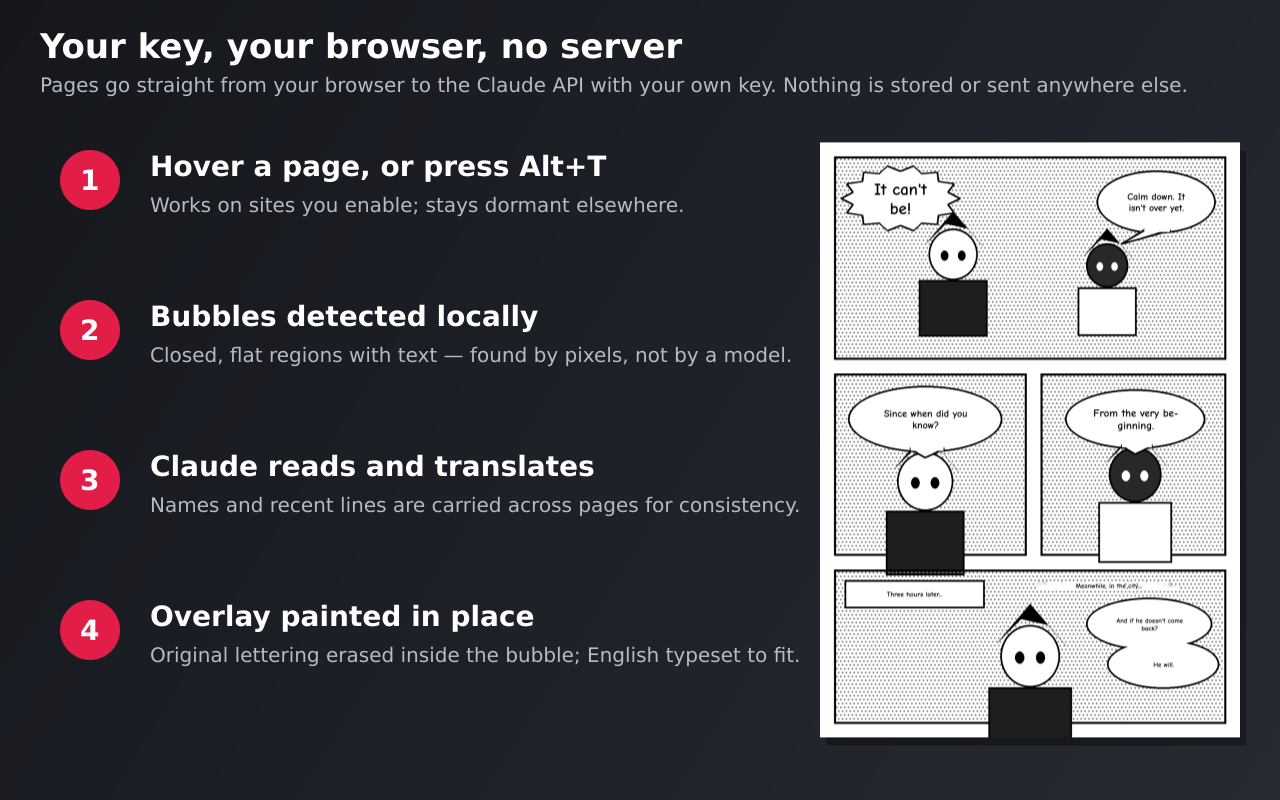
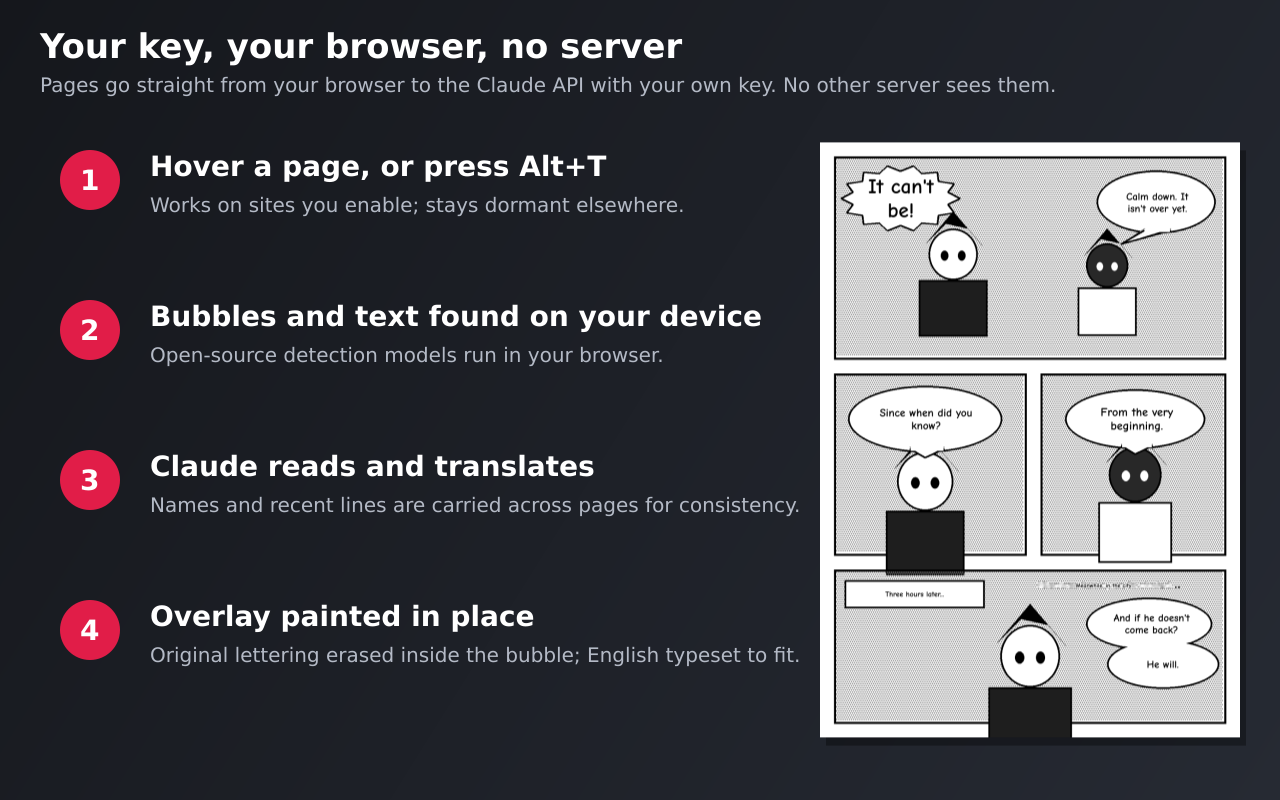
Store listing: five screenshots, re-rendered and corrected
- 1–3 re-rendered with the current engine; 3 no longer says bubbles are
  "found by pixels, not by a model" (models since 2.0.0) and its top
  line no longer says nothing is stored; 1 no longer claims the artwork
  is untouched.
- 4 (new): a Japanese page, vertical and horizontal lettering, a dark
  bubble and screentone, with real translations of its text (the test
  fixture pairs Japanese and English at random).
- 5 (new): the real popup and Claude usage panel, demo data,
  reader.example (tests/browser/store-shot.mjs), 1280x800.
- The script tags each line with the region around its original text,
  as Claude does: two overlapping bubbles had been left untranslated.
- The close-up crop fits the page width (no empty strip).

Claude-Session: https://claude.ai/code/session_01HC7DG1xgeqgY9rhdzbcHRJ

diff --git a/CHANGELOG.md b/CHANGELOG.md
@@ -15,6 +15,16 @@ All notable changes to Gytakusub are documented here. The format follows [Keep a
   - Measured with a new browser test (14 pages, fast scroll to the end, a model taking 2.5 s per answer, CPU only): the page on screen was ready about **12 s** after the stop instead of 30 s, and Claude was asked about **3** pages instead of 8.
 - **Options: the side nav stays on screen** while the page scrolls, and marks the section you're reading (or the one you picked in it). It was meant to stick already, but as a grid item it stretched to the full page height, so it scrolled away. The browser test now checks both.
 
+### Store listing
+- **Five screenshots instead of three** (`store/assets/`, upload them in the dashboard):
+  - 1–3 re-rendered with the current engine;
+  - 4 is new: a Japanese page with vertical and horizontal lettering, a dark bubble and screentone, before and after;
+  - 5 is new: the real popup and the Claude usage panel (`tests/browser/store-shot.mjs`, demo data, a site named `reader.example`).
+- **Screenshot 3 said something no longer true:** "found by pixels, not by a model". Since 2.0.0, bubbles and text are found by open-source models running in the browser. Its top line now says no other server sees your pages, instead of "nothing is stored". Screenshot 1 no longer says the artwork is untouched: narration on screentone can be smudged where it was erased.
+- **The screenshot script tags each line with the bubble around its original text,** as Claude does, not by matching the bubble's outline. Two overlapping bubbles had been left untranslated in screenshot 1.
+- **Screenshot 4 uses real translations of its Japanese text.** The generated test page pairs Japanese and English lines at random, which the tests don't mind.
+- The close-up no longer has an empty strip at its right edge.
+
 ### Releases
 - **Store uploads use the Chrome Web Store API V2.** Google planned to support the old v1.1 API, which `scripts/cws-publish.mjs` used, only until 15 October 2026. The script now uploads, waits while the store processes the package, checks its version, and submits for review, with V2's endpoints and fields. A test runs it against a fake API.
 - **No stored key for the upload.** The release workflow signs in to Google with Workload Identity Federation: GitHub vouches for the release run, and Google gives a 15-minute token to a service account that only this repo's release workflow (from `main` or a version tag) may use. One-time setup: `scripts/cws-google-setup.sh` in Google Cloud Shell, then three GitHub variables (store/RELEASE-CHECKLIST.md § Automating updates). The refresh-token way remains as a fallback.

diff --git a/store/RELEASE-CHECKLIST.md b/store/RELEASE-CHECKLIST.md
@@ -20,7 +20,7 @@ Everything below is a one-time account step or a copy-paste from `store/LISTING.
 - [ ] Paste **Name**, **Summary**, **Description** from `LISTING.md`.
 - [ ] Category: Productivity. Language: English.
 - [ ] Upload icon `extension/icons/icon128.png`.
-- [ ] Upload the three screenshots from `store/assets/` (1280×800) and the small promo tile (440×280).
+- [ ] Upload the five screenshots from `store/assets/` (1280×800, numbered in order) and the small promo tile (440×280).
 - [ ] Homepage URL: `https://github.com/gywreb/gytakusub`. Support URL: `https://github.com/gywreb/gytakusub/issues`.
 
 ## 4. Privacy practices tab (10 min) — this is where most rejections happen
@@ -60,7 +60,7 @@ Versions come with pull requests (each one raises `extension/manifest.json` and 
 
 ## Automating updates (one-time, ~15 min) — after the first version is approved
 
-Later versions are then one command from the repo folder (Windows PowerShell, macOS or Linux): `node scripts/release.mjs`. CI tests, zips, creates the GitHub Release, uploads to the store and submits for review. Listing text and screenshots stay as they are.
+Later versions are then one command from the repo folder (Windows PowerShell, macOS or Linux): `node scripts/release.mjs`. CI tests, zips, creates the GitHub Release, uploads to the store and submits for review. The API doesn't touch the listing: when the listing text or `store/assets/` change, update them in the dashboard (**Store listing** tab) yourself.
 
 The upload uses the Chrome Web Store API V2 (Google planned to support the old v1.1 API only until 15 October 2026), and signs in **without any stored key**: GitHub vouches for the release run, and Google swaps that for a 15-minute token of a service account (Workload Identity Federation, which `google-github-actions/auth` recommends over keys). Only this repo's release workflow, run from `main` or a version tag, is let in.
 

diff --git a/store/LISTING.md b/store/LISTING.md
@@ -46,7 +46,7 @@ Gytakusub is an independent, open-source reading aid (GNU AGPL v3, source on Git
 
 **Graphic assets** (in `store/assets/`)
 - Icon 128×128: `extension/icons/icon128.png`
-- Screenshots 1280×800: `screenshot-1-before-after.png`, `screenshot-2-closeup.png`, `screenshot-3-how-it-works.png`
+- Screenshots 1280×800, in this order: `screenshot-1-before-after.png`, `screenshot-2-closeup.png`, `screenshot-3-how-it-works.png`, `screenshot-4-japanese.png`, `screenshot-5-controls.png` (made by `npm run assets` in `tests/`: 1–4 render test pages through the engine, 5 is the real popup and Options page with demo data)
 - Small promo tile 440×280: `promo-small-440x280.png`
 - Marquee 1400×560: optional, not provided
 
